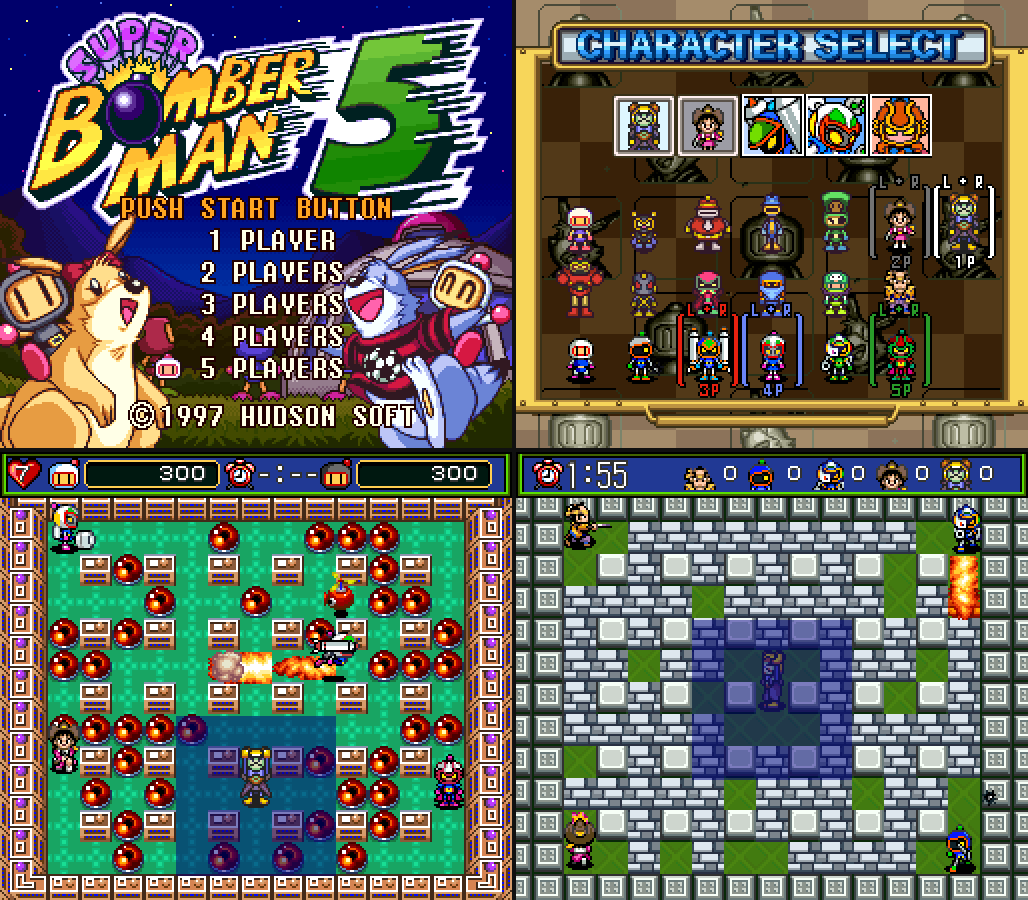
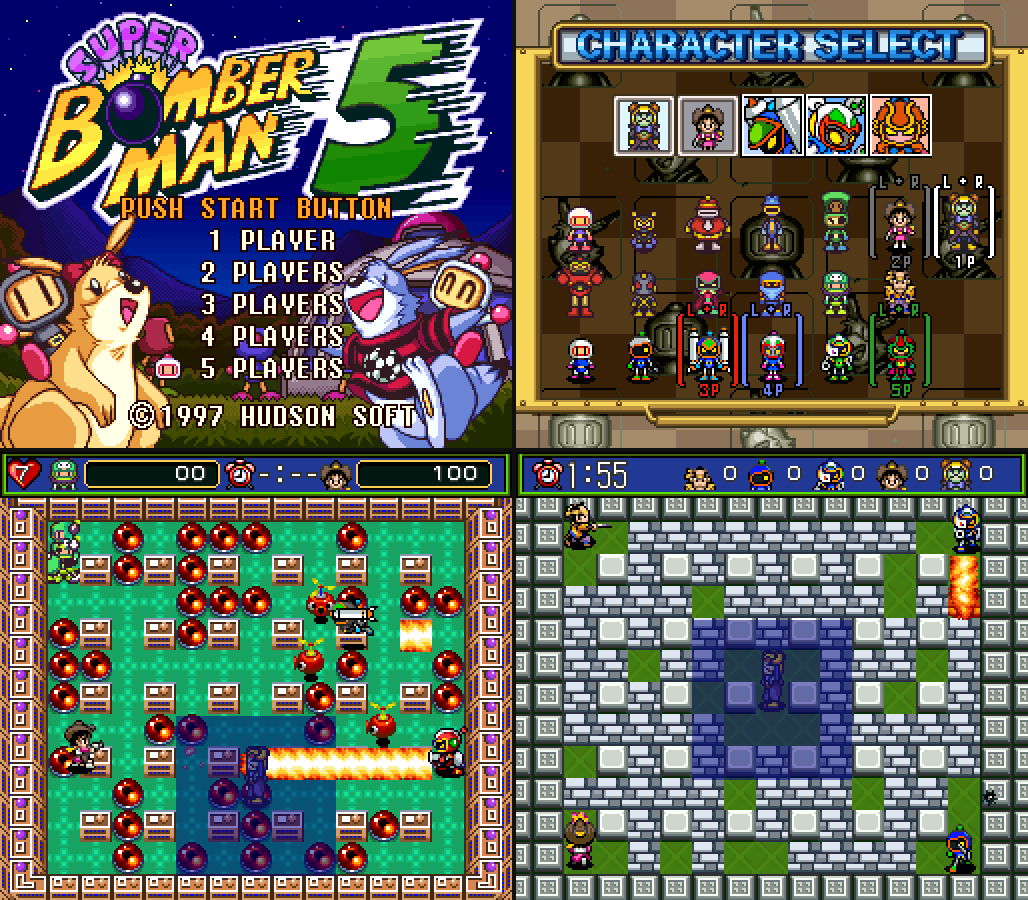
Update the Normal showcase and prefer generated games in the Windows entry

Changed region(s): [[0.0311, 0.4978, 0.4669, 0.9956], [0.1556, 0.4978, 0.1868, 0.5289]]

diff --git a/tests/windows_entry_runtime.py b/tests/windows_entry_runtime.py
@@ -18,4 +18,11 @@ run(["--rom","C:/pasta com espaço/rom japonesa.sfc"],["--rom","C:/pasta com esp
 run([],["--launcher"])
 (d/"build-lle").mkdir();shutil.move(d/"SuperBomberman5SNESRecomp.exe",d/"build-lle/SuperBomberman5SNESRecomp.exe")
 run(["--help"],["--help"])
-print("Native entry: sibling/setup and build-lle lookup, Unicode/spaces, working directory, default launcher and exit status passed.")
+# An existing setup host must not shadow the locally generated game.
+other=d/"setup.c";other.write_text(src.read_text().replace("return 37;","return 19;"))
+subprocess.run([str(args.cc.resolve()),"-municode",str(other),"-o",str(d/"SuperBomberman5SNESRecomp.exe")],check=True)
+run(["--help"],["--help"])
+(d/"build").mkdir()
+shutil.move(d/"build-lle/SuperBomberman5SNESRecomp.exe",d/"build/SuperBomberman5SNESRecomp.exe")
+run(["--help"],["--help"])
+print("Native entry: setup/build-lle/build lookup and precedence, Unicode/spaces, working directory, default launcher and exit status passed.")

diff --git a/src/windows_entry.c b/src/windows_entry.c
@@ -13,8 +13,9 @@ int WINAPI WinMain(HINSTANCE instance, HINSTANCE previous, LPSTR unused, int sho
   if (!slash) return 1;
   *slash = 0;
   const wchar_t *paths[] = {
-    L"%s\\SuperBomberman5SNESRecomp.exe",
-    L"%s\\build-lle\\SuperBomberman5SNESRecomp.exe"
+    L"%s\\build-lle\\SuperBomberman5SNESRecomp.exe",
+    L"%s\\build\\SuperBomberman5SNESRecomp.exe",
+    L"%s\\SuperBomberman5SNESRecomp.exe"
   };
   unsigned i;
   for (i = 0; i < ARRAYSIZE(paths); ++i) {

diff --git a/docs/STATUS.md b/docs/STATUS.md
@@ -4,9 +4,14 @@
 
 Integrated on main 94eba67 with its pinned framework/UI dependencies and unified Extra Characters implementation. Windows LLE runtime passed two-player Game Over → Continue retention and the five-player HUD stale-pointer, death/reentry regression. All 14 native setup-host test binaries pass; Python discovery passes (10 tests, 2 conditional skips). The additional SB4 picker-color regression covers choices 11–19 across snapshot restoration.
 
-The ROM-independent Windows entry SuperBomberman5Recomp.exe uses the existing authored assets/app.ico, finds the sibling setup/game or build-lle executable, starts it without a console, forwards Unicode arguments and preserves its exit status. A synthetic child verified sibling/development lookup, spaces, accents, working directory, default --launcher and exit code 37. Source builds copy the entry to the repository root; the Windows finalizer includes it in the setup ZIP. Existing game target/binary name stays compatible.
+The ROM-independent Windows entry SuperBomberman5Recomp.exe uses the existing reviewed assets/app.ico, finds the sibling setup/game or build-lle executable, starts it without a console, forwards Unicode arguments and preserves its exit status. A synthetic child verified sibling/development lookup, spaces, accents, working directory, default --launcher and exit code 37. Source builds copy the entry to the repository root; the Windows finalizer includes it in the setup ZIP. Existing game target/binary name stays compatible.
 
 Integração sobre a main 94eba67, mantendo os pins e o Extra Characters unificado. Rotas Windows LLE de Continue em dois jogadores e HUD em cinco passaram. Os 14 testes nativos passam; os testes Python também (10, dois condicionais ignorados). A entrada nativa com o ícone atual do “5” localiza o setup/jogo ou build-lle, não abre console e preserva argumentos Unicode e código de saída; testes com processo filho sintético passaram. Campanha completa, controles físicos, todas as combinações e distribuições Linux não são qualificados por esses testes.
+
+
+The extracted Windows setup ZIP passed its bundled-analyzer synthetic test, local user-ROM generation/build with the portable toolchain, and the root native entry completed validation/first-stage.input (3,628 frames, no fatal report). The entry prefers a generated build-lle/build game over the sibling setup host. This precedence is covered with two distinct synthetic child exit codes.
+
+O ZIP Windows extraído passou no teste sintético do analisador, geração/compilação local com a ROM do usuário e rota de 3.628 frames pela entrada nativa, sem fatal no relatório. A entrada prioriza o jogo gerado em build-lle/build diante do setup ao lado; teste com códigos de saída distintos cobre essa prioridade.
 
 ## Co-op HUD limited to P1/P2 / HUD cooperativa somente P1/P2 — 2026-10-16
 
@@ -1948,3 +1953,9 @@ fase. O segundo e o nono personagens foram observados na Zone 1-1; o nono foi
 testado com movimento/bomba e tradução PT-BR. B volta aos arquivos. Compilação
 e testes de seleção/estado passaram. Campanha completa e fases cooperativas
 ainda não foram qualificadas. Pré-release Windows com setup host sem ROM e dois pacotes de mods.
+
+## README v0.13.1 Normal frame — 2026-10-16
+
+Replaced only the bottom-left montage panel with Windows LLE runtime frame 4100. Native picker choices are Subordinate/Honey/Jet/Bazooka/Terrorin, colors green/native/black/red/native. Native egg pickup produced Black Louie (type 6); staging sets native down-facing animation after repositioning. Simultaneous Honey, Jet, Bazooka and Terrorin abilities and the P1/P2-only Normal HUD are visible. Other three panels compared pixel-identical. Poses/positions/protection/corridors were scripted for composition; no artwork was generated or extracted for source. See docs/images/README.md.
+
+Somente o quadro inferior esquerdo foi atualizado: captura real Windows LLE com cinco personagens, habilidades, Subordinado verde no Black Louie e nova HUD. Os outros três quadros são idênticos pixel a pixel; a composição usa posições e poses preparadas por script.

diff --git a/docs/images/README.md b/docs/images/README.md
@@ -3,14 +3,15 @@
 `five-player-showcase.png` (1028 × 900) combines four runtime frames, at the
 maintainer's explicit request, to show the optional features on the
 repository page. The top-left frame was captured on Windows/LLE for v0.12.1
-(corrected 1 PLAYER / 2-5 PLAYERS). The other three were captured from this
-project's own Linux LLE build of the v0.13.0 sources on 2026-10-16:
+(corrected 1 PLAYER / 2-5 PLAYERS). The top-right and bottom-right frames were captured from this project's
+own Linux LLE build of v0.13.0 on 2026-10-16. Only the bottom-left panel
+was replaced for v0.13.1, using a Windows LLE runtime frame:
 
 | Position | Scene | Mods |
 |---|---|---|
 | Top left | Title, five-player Normal Game menu | Normal co-op |
 | Top right | Normal Game character selection with seven columns and three rows: Emperor Terrorin, Honey, Jet, Lady and Great Bomber chosen by the five seats, Super Bomberman 4 portraits, colors changed with L/R | Co-op, character selection, colors, Super Bomberman 5 Extra Characters, Bomber Kings |
-| Bottom left | Zone 1-1 with those five players using their abilities: Terrorin's blue barrier, Jet's flight and fire trail, Honey's shot pose, Lady's laser pose, Great's invulnerability | Same |
+| Bottom left | Zone 1-1: green Subordinate Bomber facing down on native Black Louie (type 6), Honey's shot pose, black Jet flying with fire trail, red Bazooka's beam, Terrorin's blue barrier; P1/P2 selected-character HUD faces | Same plus Normal HUD faces, Louie improvements and infinite Normal time |
 | Bottom right | Battle Mode stage 1: Kotetsu's sword thrust, Bazooka's fire beam, Hammer's mace, Honey's shot and Terrorin inside his barrier | Extra Characters, Bomber Kings |
 
 The Super Bomberman 4 characters are drawn at runtime from the maintainer's
@@ -44,3 +45,7 @@ The packagers continue to omit documentation screenshots from setup payloads.
 `portal-destinations.png` é a captura fornecida pelo mantenedor para explicar
 o mod de portais na v0.8.0. Sua publicação no README foi expressamente
 solicitada em 2026-10-15. A arte continua pertencendo aos respectivos titulares.
+
+For the v0.13.1 bottom-left frame, five seats were selected through the real Normal picker. The cartridge egg pickup allocated the native Black Louie for P1; WRAM checks confirmed rider bit 7, mount type 6, Subordinate index 9/color 4 and down direction 2. The staged shot uses scripted positions, open ability corridors, protection for the other seats and explicit native facing/animation state for the mount; it is a presentation showcase rather than an unmodified playthrough. Honey and Terrorin have their single cartridge palettes; Jet uses SB4 color 1, Bazooka color 2 and Subordinate uses green. The other three panels are pixel-identical to v0.13.0. No generated artwork or extracted sprites were composited.
+
+Na v0.13.1 somente o quadro inferior esquerdo foi substituído por captura Windows LLE: Subordinado verde de frente, no Black Louie nativo, Honey, Jet preto voando, Bazooka vermelho com raio e barreira do Terrorin, além da HUD nova de P1/P2. A seleção e a coleta do ovo executam as rotinas reais; posições, corredores, proteção e pose nativa da montaria foram ajustados por script para compor a cena. Honey e Terrorin têm uma paleta nativa cada. Os outros três quadros foram preservados pixel a pixel. É uma cena preparada de apresentação, não uma demonstração de jogatina sem intervenções.

diff --git a/docs/PUBLISHING.md b/docs/PUBLISHING.md
@@ -65,7 +65,7 @@ Verify the default branch, tag target, successful workflow, prerelease state, UT
 
 Toda nova release exige README.md atualizado nas duas línguas, com informações úteis: downloads, formatos, instalação/atualização, recursos, requisitos e limites reais de validação. Atualize VERSION, STATUS.md, este documento e o gerador de notas.
 
-A v0.13.1 distribui **ZIP Windows x64**, **AppImage Linux x86_64 experimental** e **SHA256SUMS**. Ambos incluem setup sem ROM, fontes, analisador, licenças e os onze mods opcionais desligados por padrão (incluindo Super Bomberman 5 Extra Characters, que substitui Honey and Kotetsu e Subordinate Bomber, e Bomber Kings, que lê o Super Bomberman 4 da ROM do próprio jogador; nada do SB4 entra nos pacotes). O jogo é gerado apenas na máquina do jogador. Use checkout limpo, LLE e setup host; nunca publique o executável de desenvolvimento, ROM, código gerado, saves ou capturas.
+A v0.13.1 distribui **ZIP Windows x64**, **AppImage Linux x86_64 experimental** e **SHA256SUMS**. Ambos incluem setup sem ROM, fontes, analisador, licenças e os doze mods opcionais desligados por padrão (incluindo Super Bomberman 5 Extra Characters, que substitui Honey and Kotetsu e Subordinate Bomber, e Bomber Kings, que lê o Super Bomberman 4 da ROM do próprio jogador; nada do SB4 entra nos pacotes). O jogo é gerado apenas na máquina do jogador. Use checkout limpo, LLE e setup host; nunca publique o executável de desenvolvimento, ROM, código gerado, saves ou capturas.
 
 A workflow Release é manual e só publica quando os dois builds e verificações passam. Valide os pacotes extraídos, analisador, primeira abertura/reabertura e geração/rebuild local. O AppImage copia o setup para a pasta XDG gravável da versão e reutiliza o jogo gerado; sem FUSE, use --appimage-extract-and-run. Registre plataforma, rota/frames e limitações no STATUS.md. Preserve fontes, licenças, revisões e checksums. Não reescreva tags ou assets públicos automaticamente. Confirme notas UTF-8, estado de pré-release e hashes dos arquivos no GitHub.
 
